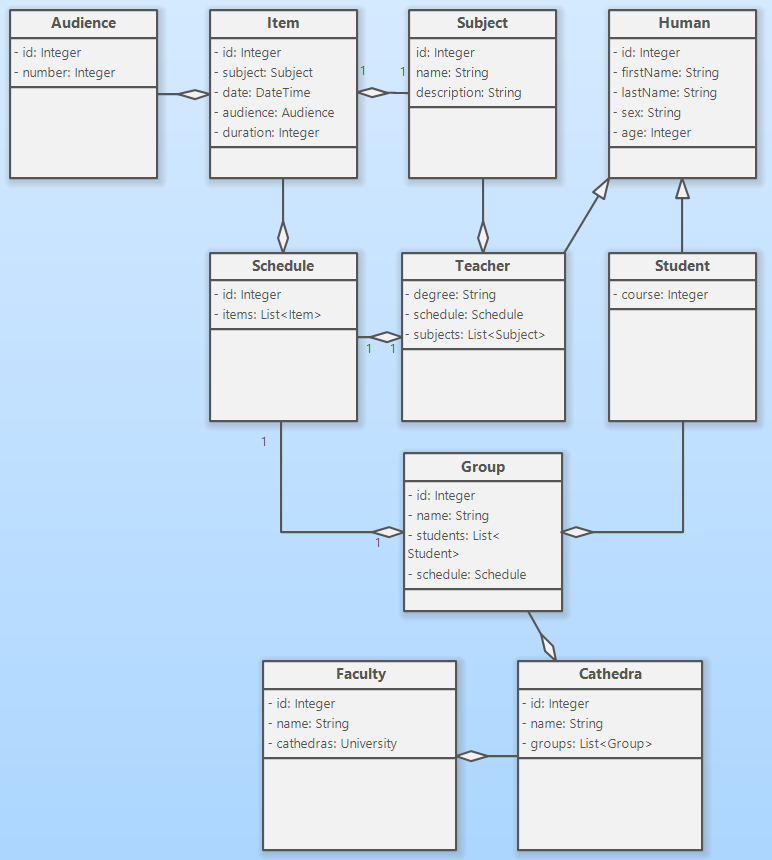
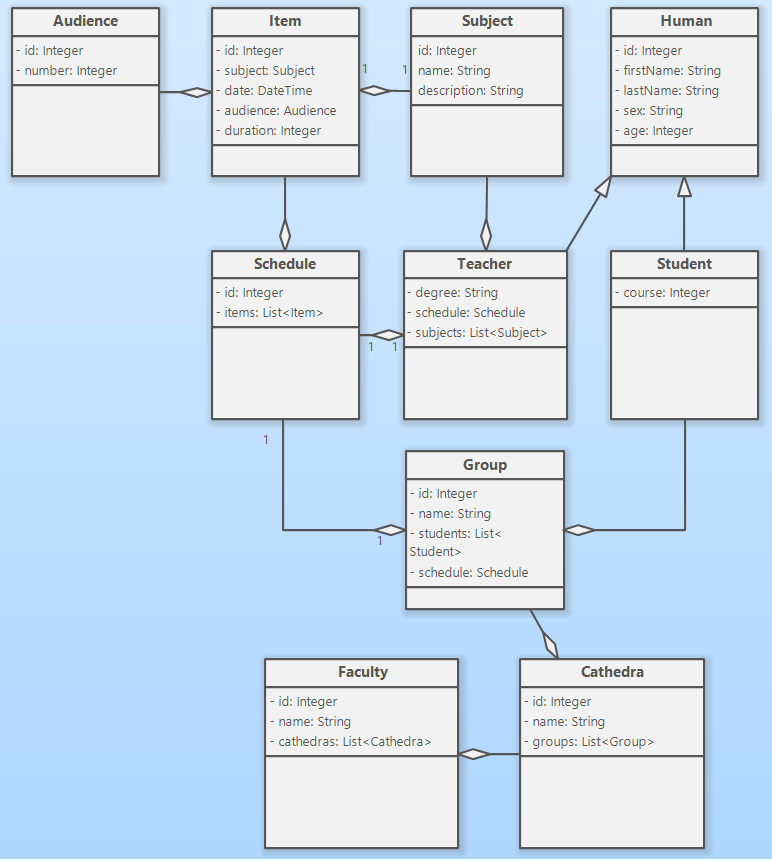
Classes added

Changed region(s): [[0.0, 0.0, 1.0, 1.0]]

diff --git a/src/main/java/com/gmail/sergick6690/Item.java b/src/main/java/com/gmail/sergick6690/Item.java
@@ -1,0 +1,12 @@
+package com.gmail.sergick6690;
+
+import javax.xml.datatype.Duration;
+import java.util.Date;
+
+public class Item {
+    private int id;
+    private Subject subject;
+    private Date date;
+    private Audience audience;
+    private Duration duration;
+}

diff --git a/src/main/java/com/gmail/sergick6690/Group.java b/src/main/java/com/gmail/sergick6690/Group.java
@@ -1,0 +1,10 @@
+package com.gmail.sergick6690;
+
+import java.util.List;
+
+public class Group {
+    private int id;
+    private String name;
+    private List<Student> students;
+    private Schedule schedule;
+}

diff --git a/src/main/java/com/gmail/sergick6690/Teacher.java b/src/main/java/com/gmail/sergick6690/Teacher.java
@@ -1,0 +1,9 @@
+package com.gmail.sergick6690;
+
+import java.util.List;
+
+public class Teacher extends Human {
+    private String degree;
+    private Schedule schedule;
+    private List<Subject> subjects;
+}

diff --git a/src/main/java/com/gmail/sergick6690/Human.java b/src/main/java/com/gmail/sergick6690/Human.java
@@ -1,0 +1,9 @@
+package com.gmail.sergick6690;
+
+public class Human {
+    private int id;
+    private String firstName;
+    private String lastNAme;
+    private String sex;
+    private int age;
+}

diff --git a/src/main/java/com/gmail/sergick6690/Faculty.java b/src/main/java/com/gmail/sergick6690/Faculty.java
@@ -1,0 +1,9 @@
+package com.gmail.sergick6690;
+
+import java.util.List;
+
+public class Faculty {
+    private int id;
+    private String name;
+    private List<Cathedra> cathedra;
+}

diff --git a/src/main/java/com/gmail/sergick6690/Cathedra.java b/src/main/java/com/gmail/sergick6690/Cathedra.java
@@ -1,0 +1,9 @@
+package com.gmail.sergick6690;
+
+import java.util.List;
+
+public class Cathedra {
+    private int id;
+    private String name;
+    private List<Group> groups;
+}

diff --git a/src/main/java/com/gmail/sergick6690/Subject.java b/src/main/java/com/gmail/sergick6690/Subject.java
@@ -1,0 +1,8 @@
+package com.gmail.sergick6690;
+
+public class Subject {
+    private int id;
+    private String name;
+    private String description;
+
+}

diff --git a/src/main/java/com/gmail/sergick6690/Schedule.java b/src/main/java/com/gmail/sergick6690/Schedule.java
@@ -1,0 +1,8 @@
+package com.gmail.sergick6690;
+
+import java.util.List;
+
+public class Schedule {
+    private int id;
+    private List<Item> items;
+}

diff --git a/src/main/java/com/gmail/sergick6690/Audience.java b/src/main/java/com/gmail/sergick6690/Audience.java
@@ -1,0 +1,6 @@
+package com.gmail.sergick6690;
+
+public class Audience {
+    private int id;
+    private int number;
+}

diff --git a/src/main/java/com/gmail/sergick6690/Student.java b/src/main/java/com/gmail/sergick6690/Student.java
@@ -1,0 +1,5 @@
+package com.gmail.sergick6690;
+
+public class Student extends Human {
+    private int course;
+}
